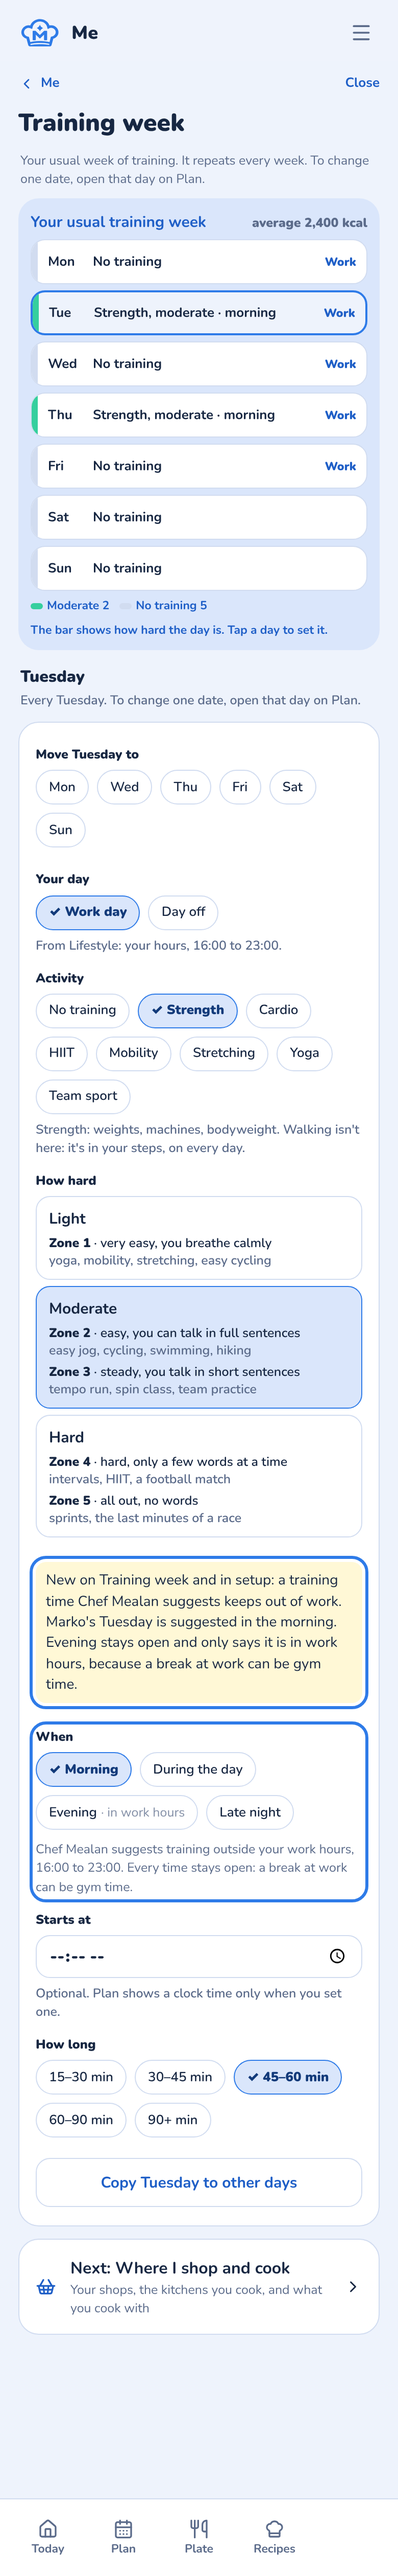
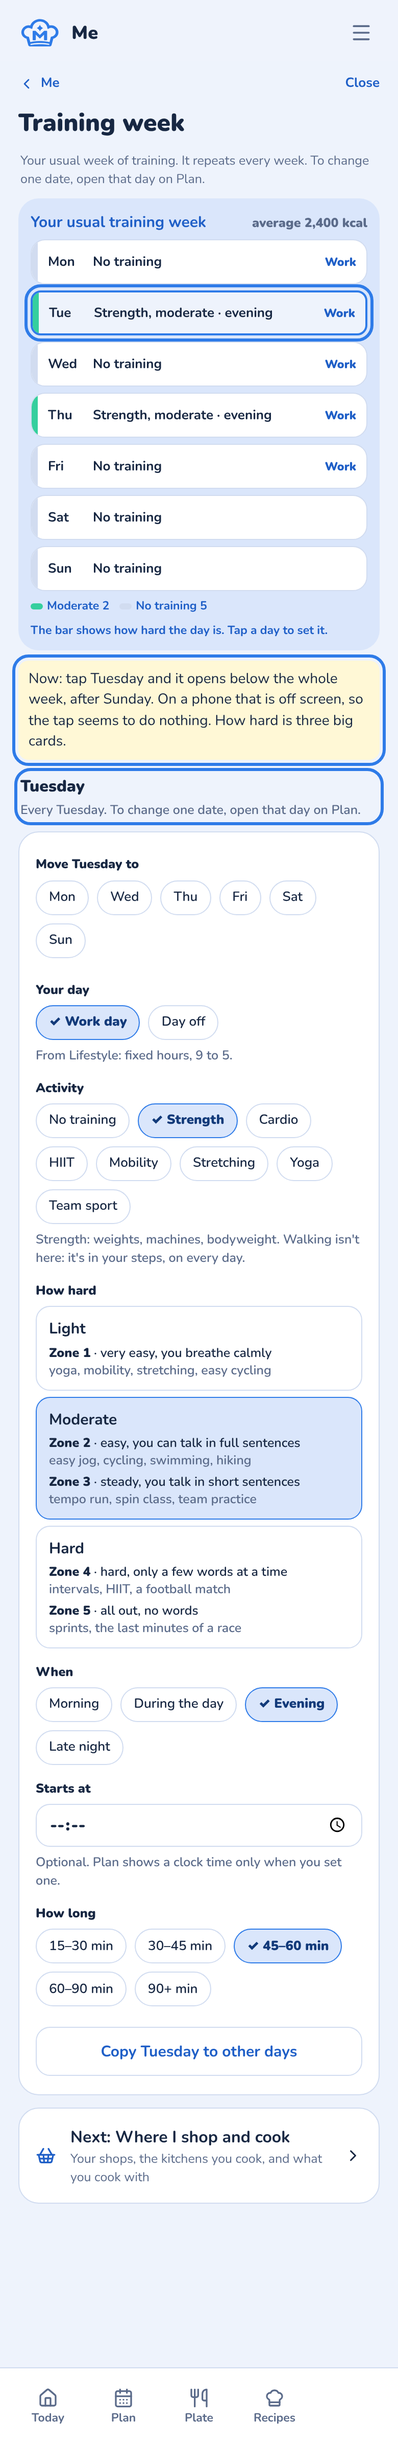
Board Stories99, DT147 version 2: time rows, What you eat, the training day opens in place
Claude-Session: https://claude.ai/code/session_01BtJPGKTfK5KfbXuNDmfhQP

diff --git a/design/boards/genDT147.py b/design/boards/genDT147.py
@@ -84,20 +84,22 @@ class Component extends DCLogic {{
 
 W = SX + 3 * (SW + GAP) - GAP + 70
 B = Board(); y = 30
-cy = storyCard(B, y, "DT147", "Your own work hours, and your day around them", [
-  ("Tester 3, UX1 (Coach Milan's call, 28 October)", "Marko works Canadian hours from Cyprus. Working hours offers only 9 to 5, 8 to 4 and 7 to 3. None fits him."),
-  ("Now, checked in 0.2.127", "Whatever is picked changes nothing. Meal times stay 07:30, 13:45, 20:00. Training stays where it was set. Chef Mealan's chat does not know the work hours. They are only shown in Me."),
-  ("The story", "Working hours keeps the three chips and adds a fourth: My hours, with From and To. Hours past midnight work too. The line says the hours are your time. Then the hours count. Meal times you have not set yourself fit around work. Day work: breakfast before work, lunch at the halfway break, dinner after. Late work, like 16:00 to 23:00: breakfast late morning, the main meal about an hour before work, a small meal at the break. Chef Mealan suggests training outside work. Every time stays open, evening too: a break at work can be gym time. Chef Mealan's chat knows the hours, so its advice fits them."),
-  ("Coach Milan, 28 October 22:02", "Don't disable Evening: a lunch break in Canada may be gym time in Cyprus."),
+cy = storyCard(B, y, "DT147", "Your own work hours, and your day around them (version 2)", [
+  ("Tester 3, UX1 (Coach Milan, 28 October)", "Marko works Canadian hours from Cyprus. Working hours offers only 9 to 5, 8 to 4 and 7 to 3. None fits him. On his iPhone the meal times on the right ran past the card. On Training week, a tapped day opened out of sight."),
+  ("Now, checked in 0.2.127", "Whatever is picked changes nothing. Meal times stay 07:30, 13:45, 20:00. Training stays where it was set. Chef Mealan's chat does not know the work hours. Meal times sit two in a row, and Safari gives a time field a minimum width. Training week opens a day below the whole week."),
+  ("Lifestyle", "Working hours keeps the three chips and adds a fourth: My hours, with From and To. Hours past midnight work too; the line says the hours are your time. Meal times you have not set yourself fit around work. Day work: breakfast before work, lunch at the halfway break, dinner after. Late work, like 16:00 to 23:00: breakfast late morning, the main meal about an hour before work, a small meal at the break. Chef Mealan's chat knows the hours. Every time is one line: the name left, the time right. How you eat is now What you eat."),
+  ("Training week", "Tap a day and it opens right under itself, as in setup. A second tap on the same day closes it. Tapping another day opens that one too; the first stays open. How hard is three chips, with the zones of the one picked. Chef Mealan suggests training outside work hours. Every time stays open, evening too: a break at work can be gym time."),
+  ("Coach Milan, 28 October 22:02 to 22:39", "Don't disable Evening. What you eat. Times one per line. Open the day in place; close it only on a second tap on the same day."),
   ("Always", "Times you set yourself win. Changing work hours never moves a meal time or a training time you set."),
 ])
 h = rowEnd(cy,
   B.screen("DT147a", 0, y, "Now: three chips, nothing follows", "r147a", "now", "9 to 5, 8 to 4, 7 to 3. Meal times 07:30, 13:45, 20:00 whatever is picked."),
-  B.screen("DT147b", 1, y, "New: My hours, meals around them", "r147b", "changed", "From 16:00 To 23:00. Breakfast 10:00, main meal 15:00, small meal 19:30."))
+  B.screen("DT147b", 1, y, "New: My hours, meals around them", "r147b", "changed", "From 16:00 To 23:00. Breakfast 10:00, main meal 15:00, small meal 19:30. One line per time."))
 y = h
 h = rowEnd(y + 10,
-  B.screen("DT147c", 0, y, "New: training outside work", "r147c", "changed", "Suggested in the morning; evening stays open, marked in work hours."))
+  B.screen("DT147c", 0, y, "Now: the day opens below the week", "r147c", "now", "Tuesday opens after Sunday, off screen."),
+  B.screen("DT147d", 1, y, "New: the day opens under itself", "r147d", "changed", "Tap again to close. Morning suggested; evening stays open."))
 y = h
 board("Stories99.dc.html", "DT147. Your own work hours, and your day around them",
-  "28 October 2026 (Tester 3, UX1). Now: 0.2.127, untouched. Drawn for your approval; nothing built.",
+  "28 October 2026 (Tester 3, UX1), version 2. Now: 0.2.127, untouched. Drawn for your approval; nothing built.",
   B, W, y - 100, "Stories98.dc.html")
